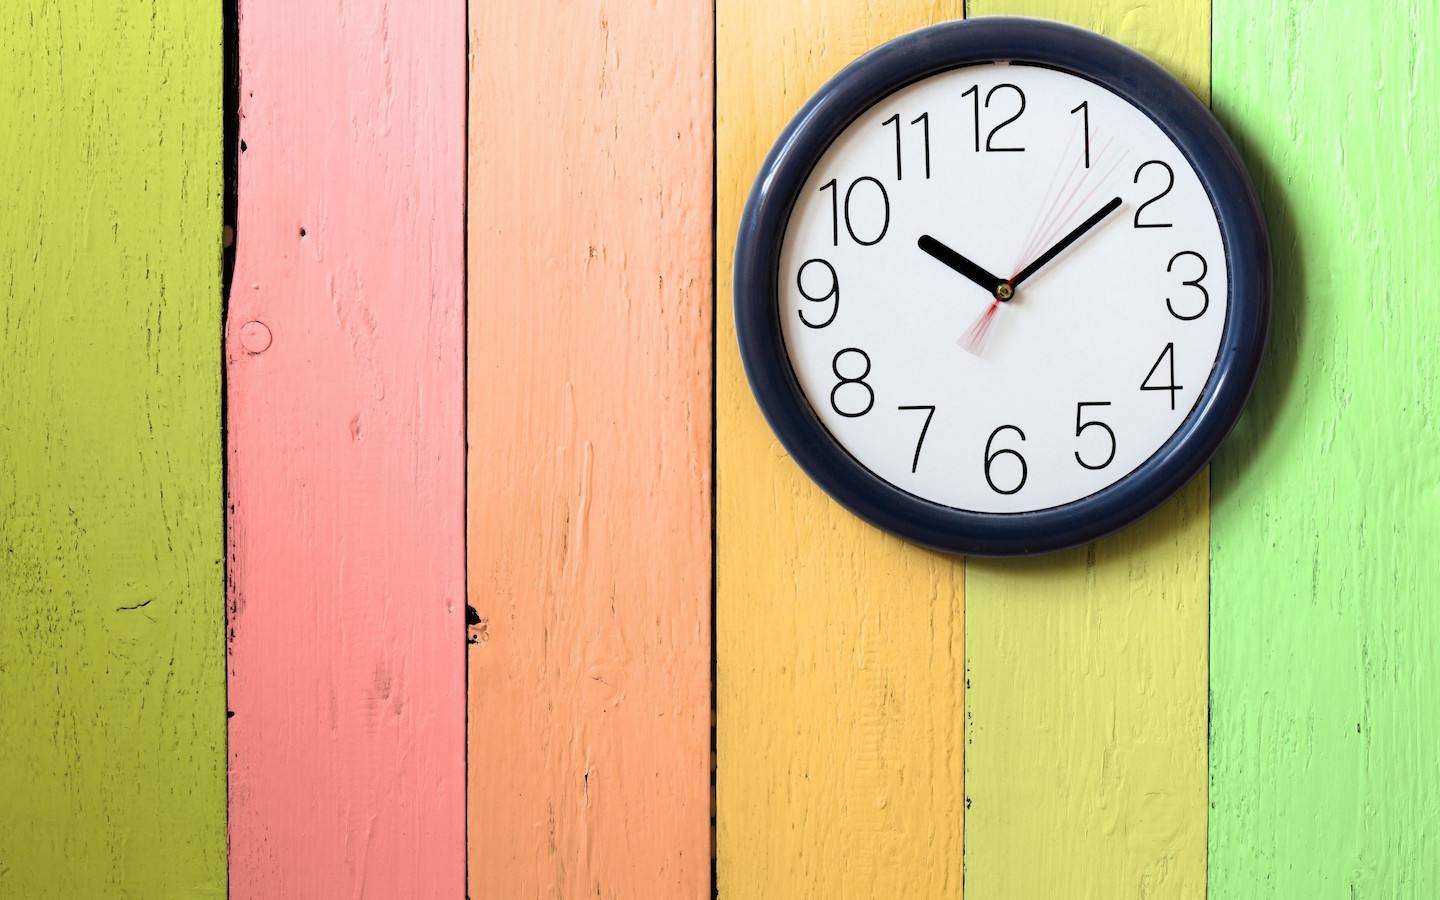
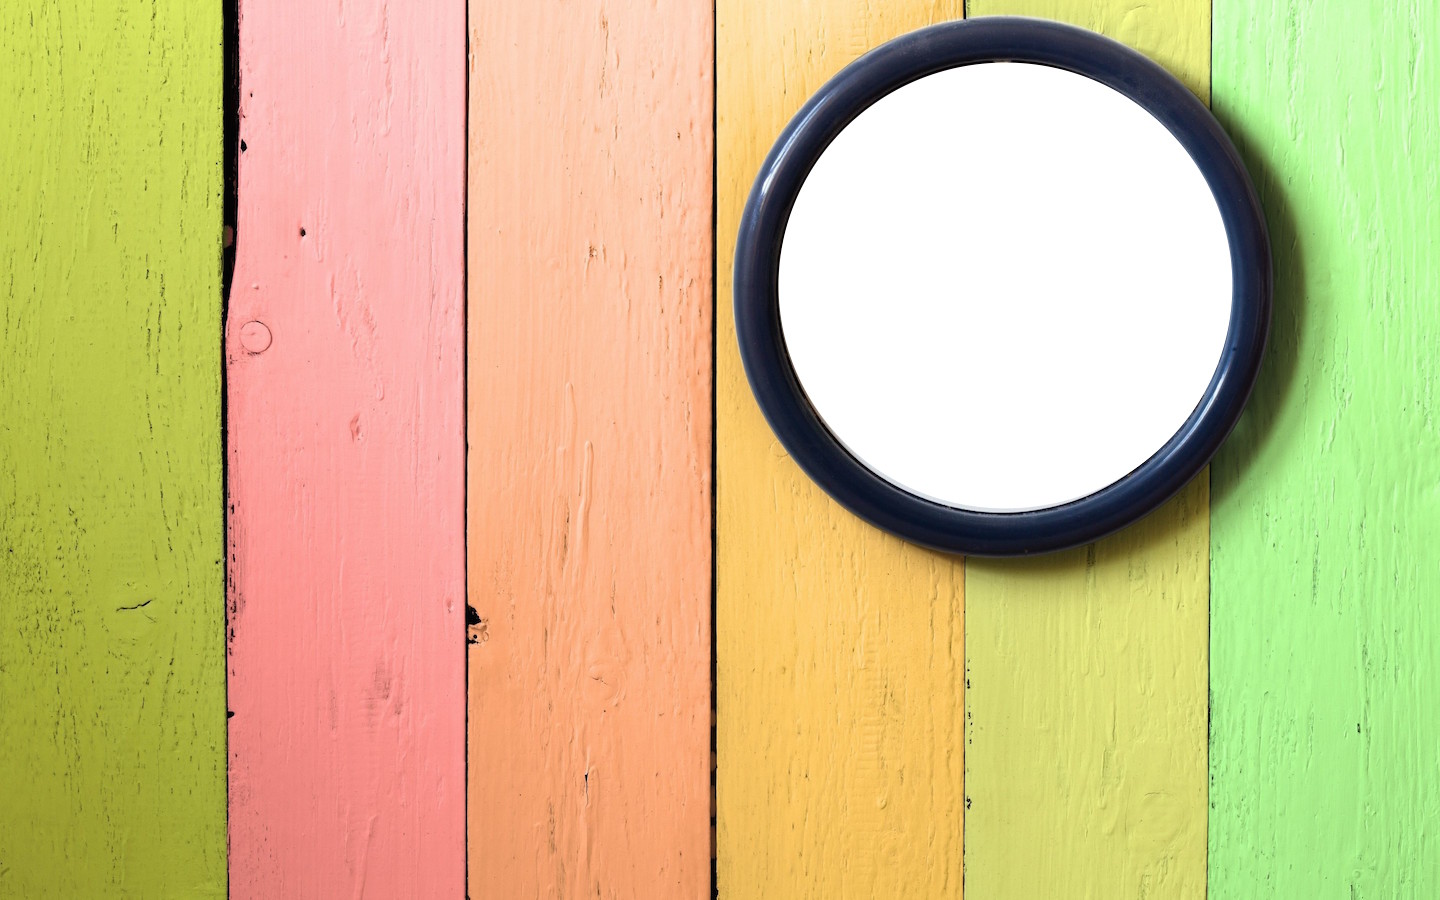
Respnsiveness achieved with clock and background

Changed region(s): [[0.5312, 0.0622, 0.875, 0.5911]]

diff --git a/images/banners/css3banners.html b/images/banners/css3banners.html
@@ -1,0 +1,103 @@
+<!DOCTYPE html PUBLIC "-//W3C//DTD XHTML 1.0 Transitional//EN" "http://www.w3.org/TR/xhtml1/DTD/xhtml1-transitional.dtd">
+<html xmlns="http://www.w3.org/1999/xhtml">
+    <head>
+        <title>CSS3 Banners</title>
+        <meta http-equiv="Content-Type" content="text/html; charset=utf-8" />	
+        <style type="text/css">			
+            h1{
+                padding-top: 10px;
+                font-size: 36px;
+                padding:0px;
+                margin: 0px;
+                line-height:100px;
+                text-shadow: 0 -1px 1px rgba(0,0,0,0.25);
+                width:310px;
+                float:left;
+            }
+            .slogan{
+                float: right;
+                margin:75px 20px 0px 0px;
+                font-size: 20px;
+            }
+            .banner{
+                width:620px;
+                height: 100px;
+                margin:7px auto;
+                -moz-box-shadow: 0 1px 3px rgba(0,0,0,0.5);
+                -webkit-box-shadow: 0 1px 3px rgba(0,0,0,0.5);
+                -moz-border-radius: 15px;
+                -webkit-border-radius: 15px;
+                padding-left:190px;
+            }
+            .banner0{
+                background: #656964 url(banner0.png) no-repeat center left;
+            }
+            .banner1{
+                color:#37535B;
+                background: #31B3DA url(banner1.png) no-repeat center left;
+                font-family: "Arial Narrow"; 
+            }
+            .banner2{
+                color:#656A64;
+                background: #81C573 url(banner2.png) no-repeat center left;
+                font-family: "Palatino Linotype"; 
+            }
+            .banner3{
+                color:#37535B;
+                background: #656964 url(banner3.png) no-repeat center left;
+                font-family: "Arial Narrow"; 
+            }
+            .banner4{
+                color:#2B8EAC;
+                background: #656964 url(banner4.png) no-repeat center left;
+                font-family: "Century Gothic"; 
+            }
+            .banner5{
+                color:#37535B;
+                background: #C6CC10 url(banner5.png) no-repeat center left;
+                font-family: "Trebuchet MS";
+            }
+            .banner6{
+                color:#37535B;
+                background: #b8d8fb url(banner6.png) no-repeat center left;
+                font-family: "Arial Narrow"; 
+                text-transform: uppercase;
+                letter-spacing: 4px;
+            }
+            .banner7{
+                color:#6e9cf9;
+                background: #a08c60 url(banner7.png) no-repeat center left;
+                font-family: "Arial Narrow"; 
+                font-style: italic;
+            }
+        </style>
+    </head>
+    <body>
+        <div class="banner banner0"></div>
+        <div class="banner banner3"></div>
+        <div class="banner banner1">
+            <h1>Sweet City</h1>
+            <div class="slogan">there's a lot to discover in your town</div>
+        </div>
+        <div class="banner banner2">
+            <h1>Automobile</h1>
+            <div class="slogan">The true fan club</div>
+        </div>
+        <div class="banner banner4">
+            <h1>Arrow Shmallow</h1>
+            <div class="slogan">Best Services</div>
+        </div>
+        <div class="banner banner5">
+            <h1>Radio Header</h1>
+            <div class="slogan">Listen to the music!</div>
+        </div>
+        <div class="banner banner6">
+            <h1>Energizer</h1>
+            <div class="slogan">The Smarter Power</div>
+        </div>
+        <div class="banner banner7">
+            <h1>Brickyton</h1>
+            <div class="slogan">We build everything</div>
+        </div>
+    </body>
+</html>

diff --git a/css/styles.css b/css/styles.css
@@ -1,7 +1,21 @@
 body {
-	background-image: url("../images/clock6 copy.jpg");
 	margin: 0;
+}
+/*Main CSS*/
+.main{
+	background-image: url("../images/clock6.jpg");
+	position: relative;
+	/*background-repeat:no-repeat;*/
+	padding-top: 220px;
+	-webkit-background-size:cover;
+	-moz-background-size:cover;
+	-o-background-size:cover;
+	background-size:cover;
+	background-position:center;
+}
 
+.main .time-zone-opts{
+	padding: 5px !important;
 }
 
 /* Navigation */
@@ -18,16 +32,40 @@ body {
 	height: 400px;
 	/*border: 1px solid red;*/
 	border: none;
-	margin-left: 47%;
-	padding-top:25px;
+	padding-top:15px;
 	text-align: center;
+}
+
+.container .clock{
+	/*margin-top: -200px;
+	margin-left: 690px;*/
+	position:absolute;
+    left:54%;
+    top:5%;
+    max-width: 10%;
 }
 
 #canvas{
 	/*border: 1px solid blue;*/
 	border: none;
+	max-width: 100%;
+    height: auto;
 	/*background-color: #333;*/
 }
 
+/* Banner */
+.banner{
+	float: left;
+
+}
+
+.banner0{
+	background: url("../images/banners/");
+
+}
+
+.banner1{
+
+}
 
 

diff --git a/js/scripts.js b/js/scripts.js
@@ -89,12 +89,13 @@ function check() {
     window.onload = setInterval(getCountryTime,1000);
 }
 
-
-
-
-
-
-
+function larg(can){
+    $(window).resize(function () {
+        width = $(can).parent().width();
+        can.width = width;
+        canCtx.fillRect(0, 0, width, 410);
+    });
+}
 
         function showClock(date) {
 
@@ -104,7 +105,8 @@ function check() {
 
             
             var angle;
-            var secHandLength = 155;
+            var secHandLength = 185;
+
 
             // CLEAR EVERYTHING ON THE CANVAS. RE-DRAW NEW ELEMENTS EVERY SECOND.
             ctx.clearRect(0, 0, canvas.width, canvas.height);        

diff --git a/index.html b/index.html
@@ -10,21 +10,24 @@
   <script src="https://ajax.googleapis.com/ajax/libs/jquery/3.2.1/jquery.min.js"></script>
   <link rel="stylesheet" href="css/styles.css">
   <script src="js/scripts.js"></script>
+  <script>
+	  $(window).resize(larg);
+  </script>
 
 </head>
 
 <body>
-	<header id="site-header">
+	<!-- <header id="site-header">
 		<div class="topnav">
 			<a href=""></a>
 		</div>
 
-	</header>
+	</header> -->
 
-	<div id="main">
+	<div class="main">
 		
 		<div class="container">
-			<canvas id="canvas" width="350" height="350"></canvas> 
+			<canvas id="canvas" width="410" height="410" class="clock"></canvas> 
 
 
 		</div>
